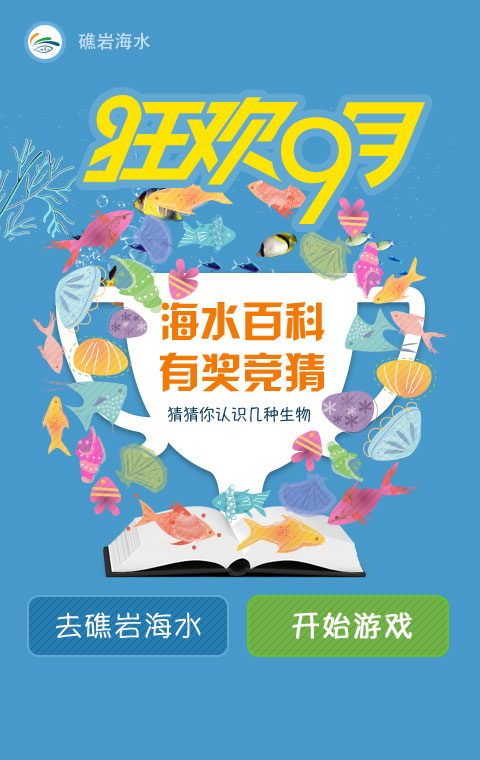
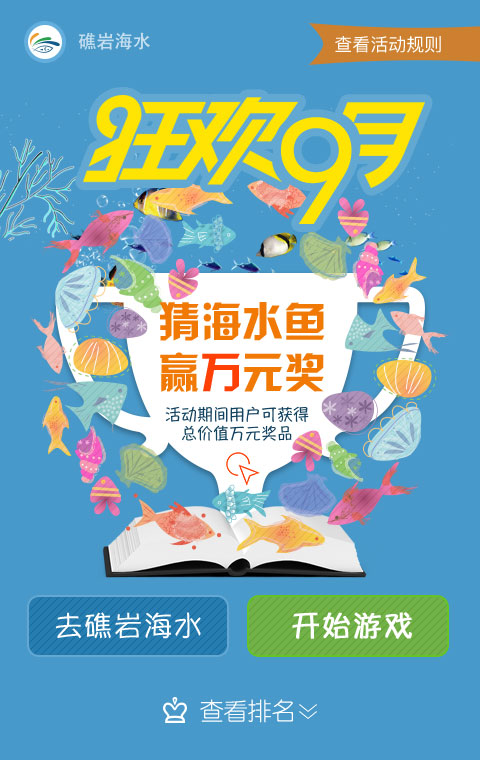
update

Changed region(s): [[0.3125, 0.3934, 0.6875, 0.6355], [0.6562, 0.0303, 1.0, 0.0908], [0.3438, 0.9079, 0.6562, 0.9684]]

diff --git a/static/index.js b/static/index.js
@@ -68,6 +68,64 @@ a.timer=null;
 btGame.makePublisher(a);
 
 
+~function(a) {
+   
+    var _url = window.location.href;
+    var codeindex = _url.indexOf('code=');
+    if(codeindex>0){
+        
+    
+        $.ajax({
+            type: 'GET',
+            url: 'https://api.huanjiaohu.com/api/material/random/imageList',
+            dataType: 'json',
+            timeout: 5000,
+            success: function(map){
+               
+                a.gameMap = map;
+                a.gameList = map['1'].concat(map['2']).concat(map['3']).concat(map['4']);
+                a.maxLevel = 30;
+                a.currentLevel = 0;
+                a.maxGate = 3;
+                a.picPath = "https://static.huanjiaohu.com/image/material";
+                a.MODE = {
+                    PIC: "picture",
+                    NAM: "name"
+                };
+                a.playMode = a.MODE.PIC;
+                a.setPlayMode = function(h) {
+                    a.playMode = a.MODE.PIC;
+                    a.fire("playModeChange", a.playMode);
+                };
+
+                
+                for (var g = 0, max = a.gameList.length; g < max; g++) {
+                    var h = a.gameList[g];
+                    if(h){
+                        h.pic = a.picPath+h.pic;
+                        a.load.add({
+                            id: h.key,
+                            src: h.pic
+                        });
+                    }
+                    
+                    if(g==29){
+                        a.setPlayMode($(this).index() - 1);
+                        a.fire("pageChange", 1);
+                        a.fire("gameStart");
+                        a.timer=setInterval(function(){a.time+=1},500);
+                    }
+                }
+               
+                
+            },
+            error: function(xhr, type){
+              alert(type)
+            }
+          })
+    
+    }
+    }(a);
 
 ~function(a) {
     a.load = [];
@@ -112,49 +170,7 @@ btGame.makePublisher(a);
     });
 }(a);
 
-~function(a) {
 
-    $.ajax({
-        type: 'GET',
-        url: 'https://api.huanjiaohu.com/api/material/random/imageList',
-        dataType: 'json',
-        timeout: 5000,
-        success: function(map){
-            
-            a.gameMap = map;
-            a.gameList = map['1'].concat(map['2']).concat(map['3']).concat(map['4']);
-            a.maxLevel = 30;
-            a.currentLevel = 0;
-            a.maxGate = 3;
-            a.picPath = "https://static.huanjiaohu.com/image/material";
-            a.MODE = {
-                PIC: "picture",
-                NAM: "name"
-            };
-            a.playMode = a.MODE.PIC;
-            a.setPlayMode = function(h) {
-                a.playMode = a.MODE.PIC;
-                a.fire("playModeChange", a.playMode);
-            };
-            for (var g = 0, max = a.gameList.length; g < max; g++) {
-                var h = a.gameList[g];
-                h.pic = a.picPath+h.pic;
-                a.load.add({
-                    id: h.key,
-                    src: h.pic
-                });
-            }
-            a.load.start();
-
-            
-                 
-        },
-        error: function(xhr, type){
-          alert(type)
-        }
-      })
-   
-}(a);
 
 ~function(a) {
     var d = $("#main .page"), e = "hide", f = 200;
@@ -188,19 +204,13 @@ btGame.makePublisher(a);
 ~function(a) {
     var d = $("#start");
     d.on("click", ".guessPic", function(e) {
-        var _url = window.location.href;
-        var codeindex = _url.indexOf('code=');
-        if(codeindex>0){ 
-            a.setPlayMode($(this).index() - 1);
-            a.fire("pageChange", 1);
-            a.fire("gameStart");
-            a.timer=setInterval(function(){a.time+=1},500);
-        }else{
-            window.location.href='https://open.weixin.qq.com/connect/oauth2/authorize?appid=wx6edb9c7695fb8375&redirect_uri=https://game.huanjiaohu.com&response_type=code&scope=snsapi_userinfo&state=STATE#wechat_redirect';
-        }
+        window.location.href='https://open.weixin.qq.com/connect/oauth2/authorize?appid=wx6edb9c7695fb8375&redirect_uri=https://game.huanjiaohu.com&response_type=code&scope=snsapi_userinfo&state=STATE#wechat_redirect';
     });
     d.on("click", ".guessNam", function(e) {
         window.location.href='https://group.huanjiaohu.com';
+    });
+    d.on("click", ".ranking", function(e) {
+        overlay();
     });
 
 }(a);
@@ -385,28 +395,28 @@ btGame.makePublisher(a);
     });
     var g = [ {
         key: 0,
-        title: "等级1"
+        title: "青魔"
     }, {
         key: 5,
-        title: "等级2"
+        title: "西瓜刨"
     }, {
         key: 10,
-        title: "等级3"
+        title: "公子小丑"
     }, {
         key: 15,
-        title: "等级4"
+        title: "粉蓝吊"
     }, {
         key: 20,
-        title: "等级5"
+        title: "金毛巾"
     }, {
         key: 25,
-        title: "等级6"
+        title: "鸡心吊"
     }, {
         key: 29,
-        title: "等级7"
+        title: "眼镜仙"
     }, {
         key: 30,
-        title: "等级8"
+        title: "薄荷仙"
     } ];
     function h(i) {
         var j = g[0].title;
@@ -517,7 +527,30 @@ btGame.makePublisher(a);
               alert(type)
             }
           })
+    }else{
+        $.ajax({
+            type: 'GET',
+            url: 'https://api.huanjiaohu.com/api/game/list',
+            dataType: 'json',
+            timeout: 5000,
+            success: function(datas){
+                var tr = ["<tr><th width='50px' style='text-align:center'>排名</th><th>用户名</th><th width='70px'>称号</th><th width='50px'>用时</th></tr>"];
+                $.each(datas,function (i,data){
+                    var _tr = "<tr><td>"+(i+1)+"</td><td><div class='name'><div class='head'><img src='"+data['headimgurl']+"'></div><div>&nbsp;&nbsp;"+data['name']+"</div></div></td><td>"+data['title']+"</td><td>"+data['time']+"</td></tr>";
+                    tr.push(_tr)
+                });
+                $("#ranking").html(tr.join(""));
+            },
+            error: function(xhr, type){
+              alert(type)
+            }
+          })
     }
  
 }(a);
 
+
+function overlay(){
+    var e1 = document.getElementById('modal-overlay');
+    e1.style.visibility =  (e1.style.visibility == "visible"  ) ? "hidden" : "visible";
+}

diff --git a/static/index.css b/static/index.css
@@ -10,7 +10,13 @@ html,body{-webkit-tap-highlight-color:transparent;font-family:Tahoma, "微软雅
 }
 a, a:hover{text-decoration:none;}
 
-#main{width:480px;height:760px;margin:0 auto;overflow:hidden;position:relative;}
+#main{
+	width:480px;
+	height:768px;
+	margin:0 auto;
+	overflow:hidden;
+	position:relative;
+}
 #main .page{position:absolute;overflow:hidden;top:0;width:100%;height:100%;}
 #main .show{left:0;}
 #main .hide{left:-100%;}
@@ -23,8 +29,65 @@ a, a:hover{text-decoration:none;}
 #start .guessNam{margin-left:37px;}
 #start .guessNam{float:left;width:185px;height:64px;}
 
-#start .moreLink{position:absolute;top:630px;left:126px;width:230px;height:150px;}
 
+#start .ranking{position:absolute;top:690px;left:126px;width:230px;height:50px;}
+
+.ranking{
+	display: flex;
+	justify-content: center;
+	width: 100%;
+}
+.ranking table{
+	text-indent:0!important;
+	width:100%;
+	background-color: #ffffff;
+	border-radius: 6px;
+	border-collapse: collapse;
+}
+.ranking  tr{
+	text-align: left;
+	height: 50px;
+}
+.ranking table tr:nth-of-type(odd){
+
+	background: #F7F8F9;
+}
+
+.ranking table .name{
+	display: flex;
+}
+.ranking table  tr:first-child{
+	color: #ff6c00;
+	font-size: 18px;
+}
+
+.ranking table  td:first-child{
+	text-align: center;
+}
+
+.ranking table .head{
+	width: 32px; 
+	height: 32px; 
+	float:left; 
+	border-radius: 50%; 
+	overflow: hidden;
+}
+.ranking td{border:0;padding:0}
+.ranking table img{
+	width:100%
+}
+
+#ranking tr:nth-of-type(2)
+{
+	background: #FFE3d5;
+}
+#ranking tr:nth-of-type(3),
+#ranking tr:nth-of-type(4),
+#ranking tr:nth-of-type(5),
+#ranking tr:nth-of-type(6)
+{
+	background:#FFF5F0!important;
+}
 
 #play .header{height:56px;font-size:30px;text-align:center;color:#ff6c00;}
 #play .wLevel{position:absolute;top:10px;left:15px;}
@@ -65,5 +128,22 @@ a, a:hover{text-decoration:none;}
 #end .again{left:46px;background-position:-182px -330px;}
 #end .notify{right:46px;background-position:0 -330px;}
 #end .smallLink{position:absolute;bottom:0px;width:100%;height:280px;background: url("img_s/small.gif") no-repeat}
-#end .publishLink{position:absolute;bottom:0px;width:100%;height:280px;background: url("img_s/publish.gif") no-repeat}
+#end .publishLink{position:absolute;bottom:0px;width:100%;height:280px;background: url("img_s/publish.png") no-repeat}
 
+#modal-overlay {
+	visibility: hidden;
+	position: absolute;   /* 使用绝对定位或固定定位  */
+	left: 0px;
+	top: 0px;
+	width:100%;
+	text-align:center;
+	z-index: 1000;
+	background-color: rgba(0,0,0,0.4) ;
+}
+/* 模态框样式 */
+.modal-data{
+	width:95%;
+	margin: 100px auto;
+	background-color: #fff;
+	text-align:center;
+}

diff --git a/index.html b/index.html
@@ -21,7 +21,9 @@
         <h1 class="title">礁岩海水么么答</h1>
         <a href="javascript:;" class="guessPic"></a>
         <a href="javascript:;" class="guessNam"></a>
+        <a href="javascript:;" class="ranking"></a>
         <div class="clear"></div>
+
     </div>
     <div id="play" class="page animate hide">
         <div class="header">
@@ -55,7 +57,7 @@
             <a href="javascript:;" class="again">再来一次</a>
             <a href="javascript:;" class="notify">通知好友</a>
         </div>
-        <div class="smallLink" ></div>
+        <div class="publishLink" ></div>
 
     </div>
     
@@ -88,6 +90,17 @@
     <div class="clear"></div>
 </script>
 <!-- END 答案模版 -->
+<div id="modal-overlay">
+        <div class="modal-data">
+                <div class="ranking">
+                        <table id="ranking" border="0">
+                        </table>
+                </div>  
+            <br>
+            <br>
+            <p><a onclick="overlay()" href="">关闭</a></p>
+        </div>
+    </div>
 </body>
 
 <script src="static/index.js?v=1"></script>

diff --git a/static/common.js b/static/common.js
@@ -591,3 +591,4 @@ var guanzhuurl ="http://mp.weixin.qq.com/s?__biz=MzI4MjA2MjE0MQ==&mid=246005295&
         document.title = c.desc = c.title;
     };
 }(btGame || (btGame = {}));
+
